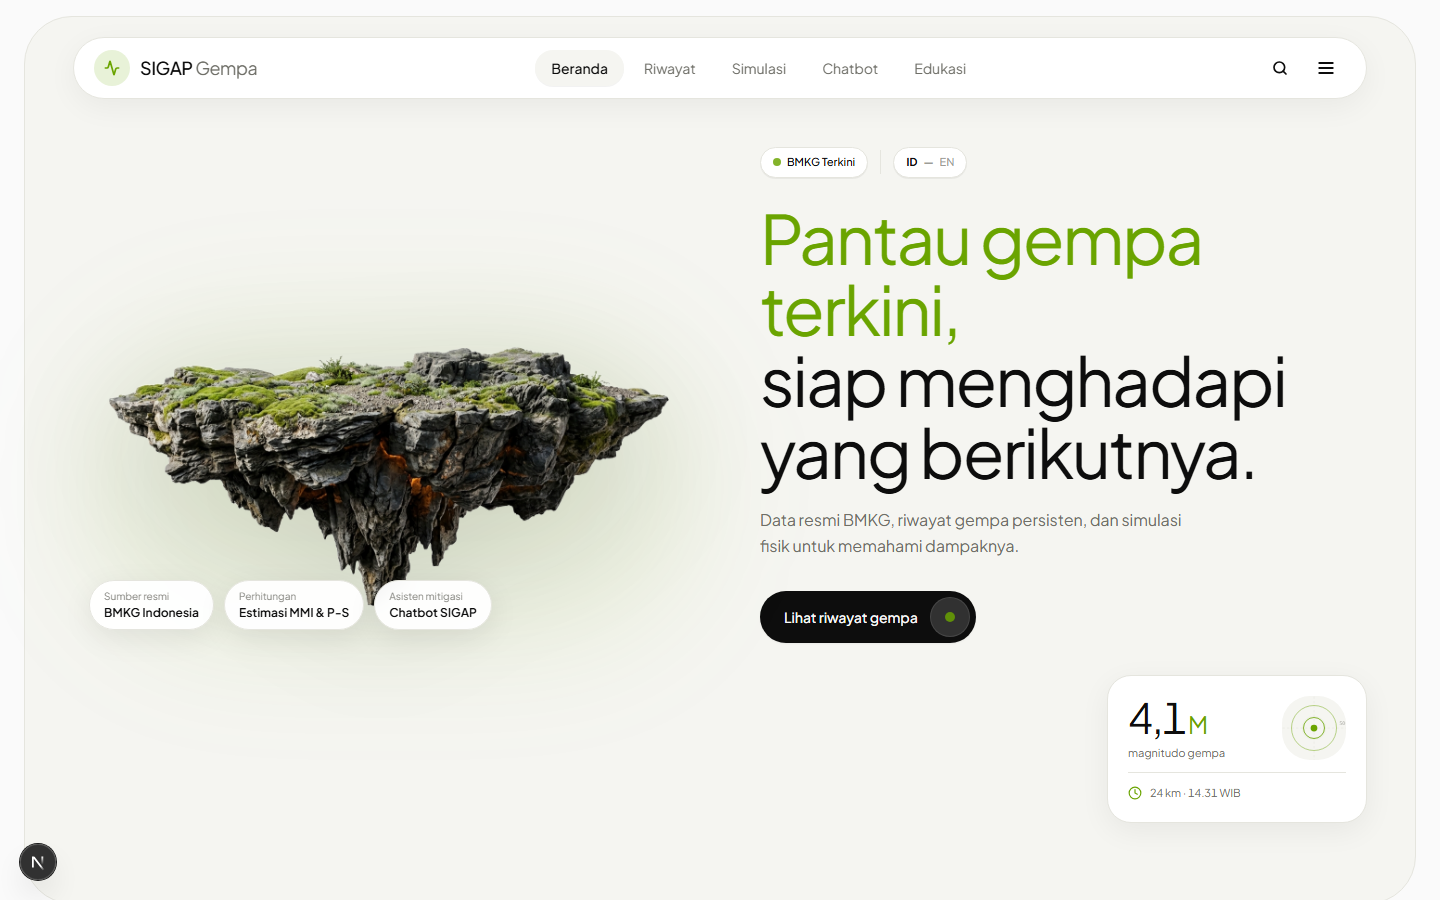
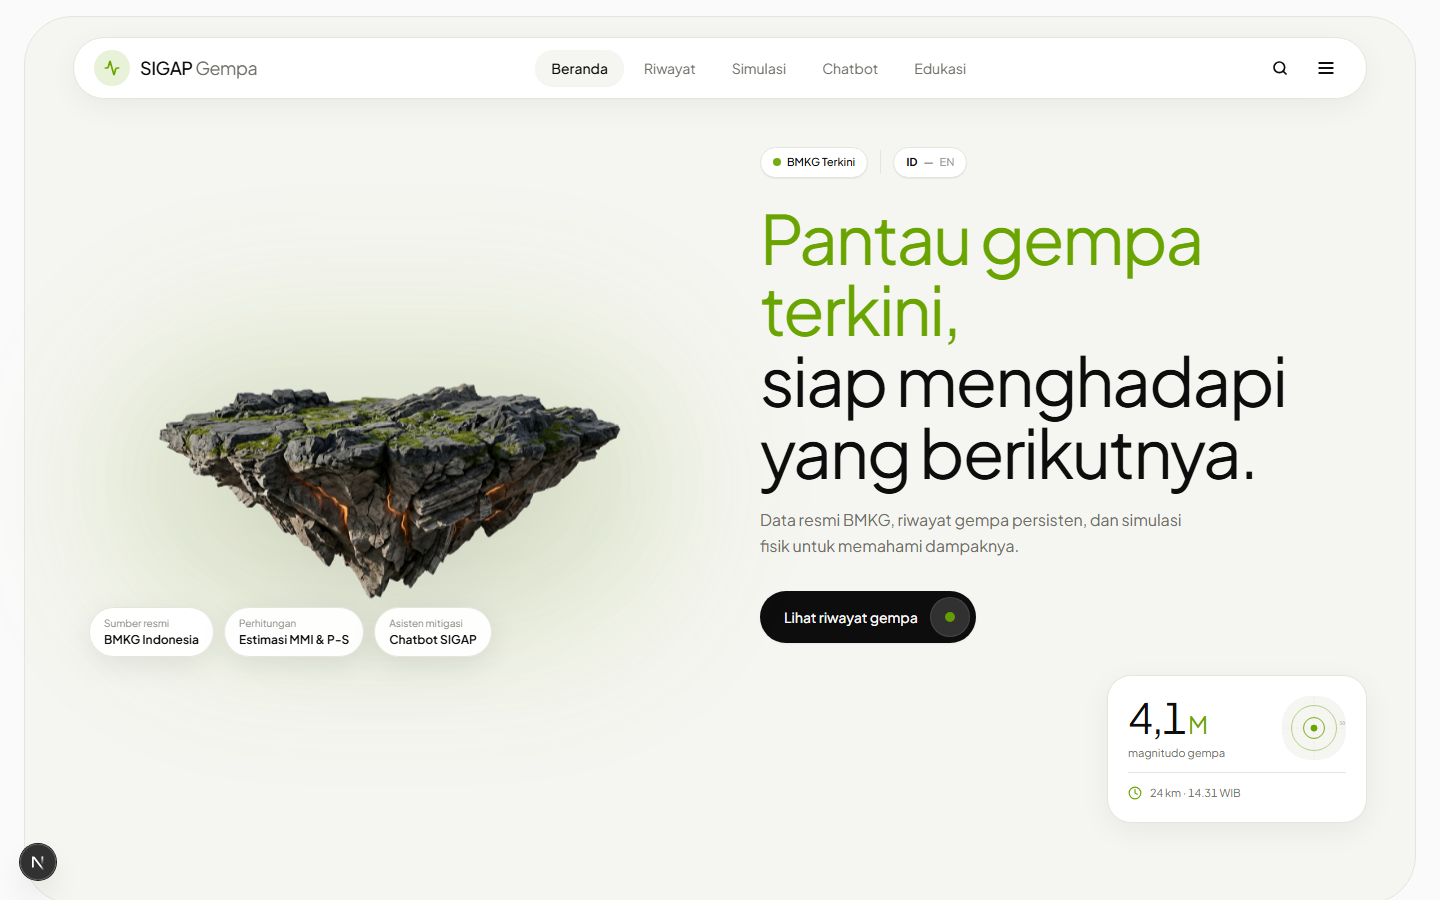
feat(assets): integrasi aset 3D tectonic island fotorealistis ke Beranda

Changed region(s): [[0.0625, 0.3733, 0.4688, 0.7467]]

diff --git a/src/app/page.tsx b/src/app/page.tsx
@@ -182,7 +182,7 @@ export default async function HomePage() {
                   {/* Subtle soft primary blur behind the stone */}
                   <div className="pointer-events-none absolute -inset-6 rounded-full bg-[var(--color-primary)]/10 blur-3xl" />
                   <img
-                    src="/images/tectonic-island.png"
+                    src="/images/tectonic-island-v2.png"
                     alt="Formasi geologis lempeng tektonik seismik Indonesia"
                     className="relative w-full h-auto max-h-[460px] object-contain animate-floaty filter drop-shadow-[0_30px_60px_rgba(13,13,13,0.12)] select-none pointer-events-none"
                   />
